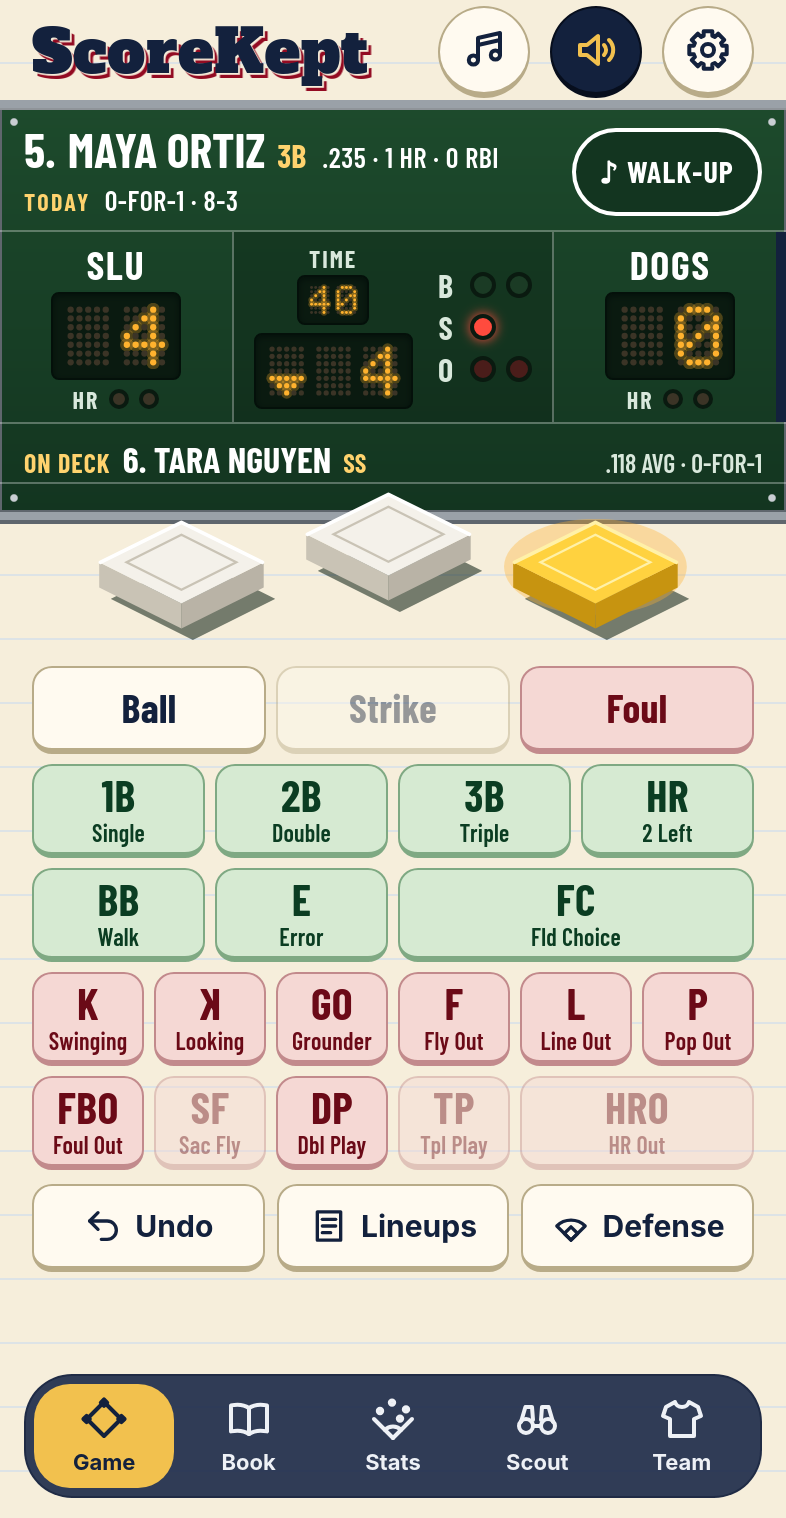
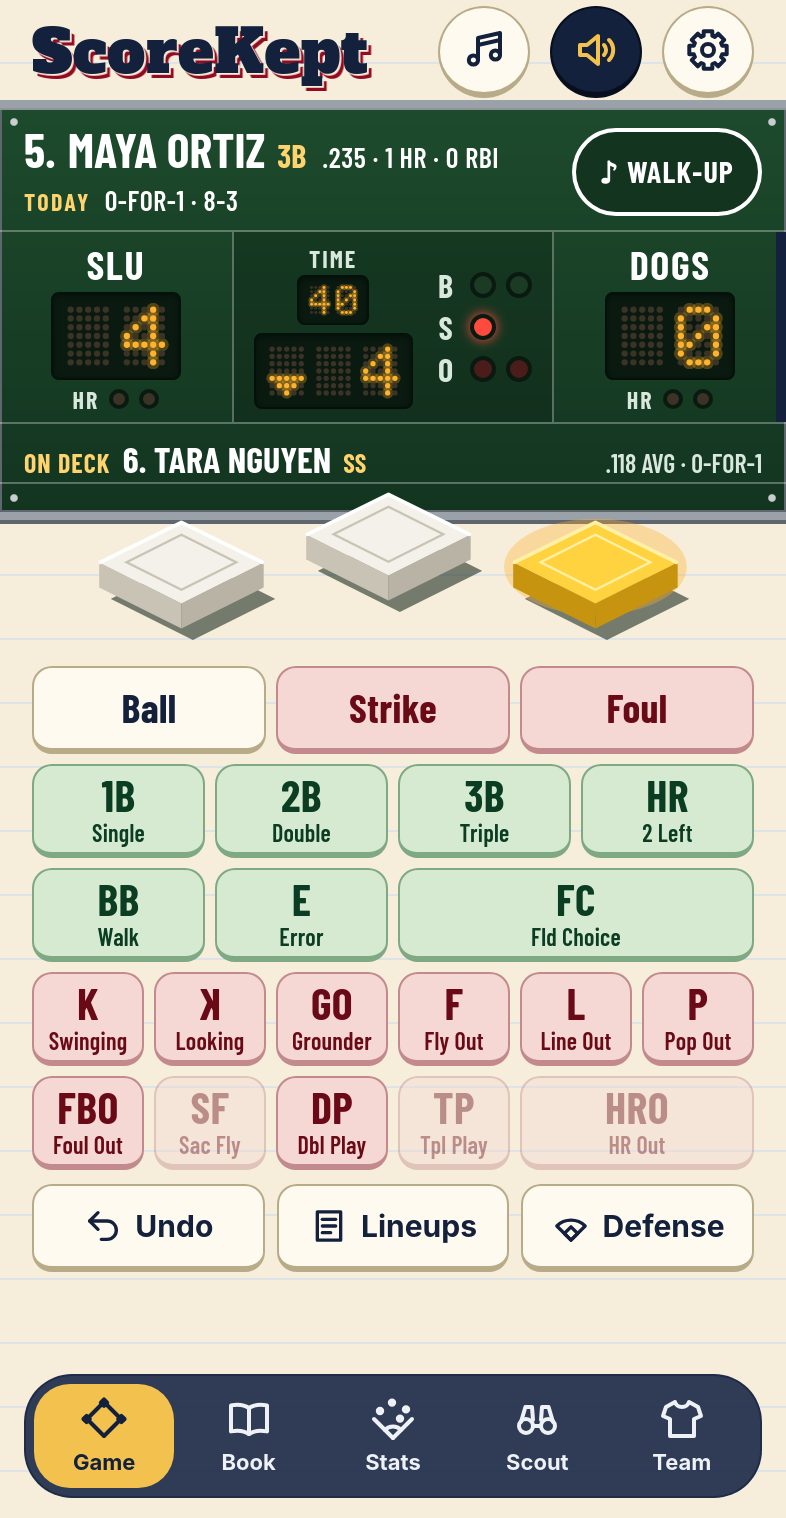
Game and Organ: Strike records the strikeout; the Organ as the sound hub
Under two-strike rules a dimmed Strike after one strike looked broken:
Strike now turns red on the out pitch and records a swinging strikeout.
The Organ fills its sheet, shows eight rows, ends its menu with Settings
for every sound setting, and Done is a small key in the corner.

Claude-Session: https://claude.ai/code/session_019GkS5eEiAzmEB3GrHC5aVf

Changed region(s): [[0.3359, 0.4335, 0.6718, 0.4954]]

diff --git a/src/content/help.ts b/src/content/help.ts
@@ -43,7 +43,7 @@ export const HELP: HelpSection[] = [
     paragraphs: [
       'Green buttons are for a batter who reaches base. Red buttons are for a batter who’s out. Each shows the code you’d write in the book over a plain word: GO over Grounder, K over Swinging. Some are dimmed when they can’t happen, like Sac Fly with nobody on third, or HRO before your team is over its home-run limit; tap one to hear why.',
       'The top of the scoreboard shows the batter’s season (average, home runs, RBI) and today: hits for at-bats, each trip by its Book code, RBI, and runs.',
-      'With Balls and Strikes on, tap Ball, Strike, or Foul for each pitch; the B, S, and O lamps beside the inning keep the count. Ball turns green when it would be ball four, Foul turns red when it would be a foul out, and Strike dims at two strikes: strike three is K Swinging or K Looking. BB stays for an intentional walk.',
+      'With Balls and Strikes on, tap Ball, Strike, or Foul for each pitch; the B, S, and O lamps beside the inning keep the count. Ball turns green when it would be ball four, and Strike and Foul turn red when they’d make the out. Strike on the out pitch records a swinging strikeout; tap K Looking instead for a called one. BB stays for an intentional walk.',
       'With Hit Location on, the field opens after a ball in play. Tap where the ball went, then Save. Skip records the play without a spot.',
       'In Dugout Mode, the other team’s half uses quick buttons: +1 Run, +1 Out, + Hit, + Our Error, and + Their HR.',
     ],
@@ -102,7 +102,7 @@ export const HELP: HelpSection[] = [
   {
     title: 'Sounds and Walk-Ups',
     paragraphs: [
-      'The music notes at the top of the Game tab open the Organ, a click-wheel player with Rally, Celebrate, Pregame, Between Innings, Drama, Send-Offs, and Walk-Ups. Slide around the wheel to scroll, press the middle to open an album or play a tune, and MENU to go back. The arrows change tunes, and play and pause stops. With VoiceOver, the Organ is a plain list of tunes instead. The Organ plays even when game sounds are off.',
+      'The music notes at the top of the Game tab open the Organ, a click-wheel player with Rally, Celebrate, Pregame, Between Innings, Drama, Send-Offs, and Walk-Ups. Slide around the wheel to scroll, press the middle to open an album or play a tune, and MENU to go back. The arrows change tunes, and play and pause stops. With VoiceOver, the Organ is a plain list of tunes instead. The Organ plays even when game sounds are off. Settings, at the bottom of its menu, opens every sound setting.',
       'The speaker next to it turns game sounds on and off. It lights up and plays a short tune when sound comes on, and goes plain and quiet when it’s off. Each play gets its sound, then the next batter’s walk-up, then anything special, like taking the lead. Scoring the next play or tapping Undo fades whatever is playing.',
       'Pick each player’s walk-up on their card: one of eight originals, any organ tune, or their own song file, with where to start and how long to play. Walk-Up on the scoreboard plays it anytime. On a player’s birthday, their first at-bat is Happy Birthday.',
       'Settings, Sounds & Walk-Up Songs has the sound pack, Big Speaker Mode (the spinning swirl and a big echo, for a Bluetooth speaker at the field), the echo (from Off to Big Stadium), the crowd, the PA announcer, umpire calls, music between innings, and a tune for each moment.',

diff --git a/src/ui/sound/organ.ts b/src/ui/sound/organ.ts
@@ -18,6 +18,7 @@ import { h, setText, svg } from '../dom.ts';
 import { tick } from '../haptics.ts';
 import { openSheet } from '../sheet.ts';
 import { fadeAll, nowPlaying, onPlaying, playTune } from './player.ts';
+import { openSounds } from './sounds.ts';
 
 export function lengthText(seconds: number): string {
   const s = Math.round(seconds);
@@ -29,7 +30,7 @@ function tunesIn(group: string): Tune[] {
   return TUNES.filter((t) => t.group === group);
 }
 
-const ROWS = 6;
+const ROWS = 8;
 /** Degrees of slide per step. */
 const STEP = 28;
 
@@ -56,7 +57,9 @@ export function openOrgan(app: App): void {
   const wheel = h('div', { class: 'cw-wheel' }, menu, prev, next, play, hub);
   const player = h('div', { class: 'cw-player', 'aria-hidden': 'true' }, screen, wheel);
 
-  const count = () => (level === 'albums' ? ALBUMS.length : level === 'songs' ? tunesIn(ALBUMS[album]!.group).length : 0);
+  // The menu: every album, then Settings, the way into all the sound settings (Steve, Nov 13:
+  // the iPod is the hub for everything sound).
+  const count = () => (level === 'albums' ? ALBUMS.length + 1 : level === 'songs' ? tunesIn(ALBUMS[album]!.group).length : 0);
 
   function render(): void {
     const playing = nowPlaying();
@@ -94,7 +97,7 @@ export function openOrgan(app: App): void {
     }
     window.clearInterval(timer);
     const rows: [string, string][] =
-      level === 'albums' ? ALBUMS.map((a) => [a.name, '›']) : tunesIn(ALBUMS[album]!.group).map((t) => [t.name, lengthText(tuneSeconds(t))]);
+      level === 'albums' ? [...ALBUMS.map((a): [string, string] => [a.name, '›']), ['Settings', '›']] : tunesIn(ALBUMS[album]!.group).map((t): [string, string] => [t.name, lengthText(tuneSeconds(t))]);
     setText(where, level === 'albums' ? 'Organ' : ALBUMS[album]!.name);
     const first = Math.max(0, Math.min(sel - ROWS + 2, rows.length - ROWS));
     view.replaceChildren(
@@ -125,6 +128,7 @@ export function openOrgan(app: App): void {
   }
 
   function choose(): void {
+    if (level === 'albums' && sel === ALBUMS.length) return openSounds(app);
     if (level === 'albums') {
       album = sel;
       sel = 0;
@@ -206,9 +210,12 @@ export function openOrgan(app: App): void {
 
   // VoiceOver: the same albums and tunes as plain buttons.
   const vo = new Map<string, HTMLButtonElement>();
+  const voSettings = h('button', { type: 'button' }, 'Sound Settings');
+  voSettings.addEventListener('click', () => openSounds(app));
   const list = h(
     'div',
     { class: 'sk-visually-hidden' },
+    voSettings,
     ...ALBUMS.map((a) =>
       h(
         'section',
@@ -238,7 +245,8 @@ export function openOrgan(app: App): void {
     title: 'Organ',
     full: true,
     className: 'cw-sheet',
-    body: [h('p', { class: 'sk-row-note' }, 'Slide around the wheel to scroll. Press the middle to open an album or play a tune, and MENU to go back. The Organ plays even when game sounds are off.'), player, list],
+    // Nearly full screen: the player fills the sheet, and Done is a small key in the corner (Steve, Nov 13).
+    body: [player, list],
     done: { label: 'Done', onClick: () => undefined },
     cancel: false,
     onClose: () => {

diff --git a/src/ui/game/pad.ts b/src/ui/game/pad.ts
@@ -55,12 +55,13 @@ const OUTS: KeyDef[] = [
 /**
  * The slim pitch row (Steve's Option B, Nov 13): Ball, Strike, Foul. No small words: the board's
  * B, S, O lamps say the count. A key takes on the color of what it would do: Ball turns green when
- * it's ball four, Foul turns red when it's a foul out, and Strike dims at two strikes, because
- * strike three is K or the backwards K, so the pad says how the batter went down.
+ * it's ball four, and Strike and Foul turn red when they'd make the out. Strike always works: at
+ * the strikeout count it records a swinging strikeout (Steve: under 2 strikes = out, a dimmed
+ * Strike after one strike looked broken); the backwards K is there for a called one.
  */
 const PITCHES: { p: PitchEvent['pitch']; word: 'ball' | 'strike' | 'foul'; label: string }[] = [
   { p: 'ball', word: 'ball', label: 'Ball' },
-  { p: 'look', word: 'strike', label: 'Strike' },
+  { p: 'swing', word: 'strike', label: 'Strike' },
   { p: 'foul', word: 'foul', label: 'Foul' },
 ];
 
@@ -162,8 +163,7 @@ export class Pad {
       // VoiceOver also hears what the pitch does ("Walk"); sighted scorers see the color.
       setAttr(b, 'aria-description', word);
       b.classList.toggle('sk-hit', p === 'ball' && word === 'Walk');
-      b.classList.toggle('sk-out', p === 'foul' && word === 'Foul Out');
-      setDimmed(b, p === 'strike' && word === 'Strikeout' ? 'Strike three: tap K Swinging or K Looking.' : undefined);
+      b.classList.toggle('sk-out', (p === 'foul' && word === 'Foul Out') || (p === 'strike' && word === 'Strikeout'));
     }
     for (const [r, b] of this.keys) setDimmed(b, v.dimmed[r]);
     const hr = this.keys.get('HR')!;

diff --git a/src/ui/sound/sound.css b/src/ui/sound/sound.css
@@ -221,8 +221,10 @@
 .cw-player {
   display: grid;
   gap: 22px;
-  width: min(300px, 100%);
-  margin: 4px auto 0;
+  /* As big as the sheet allows: wide enough for the screen, short enough that the wheel fits. */
+  /* Never below 280 wide (sideways, it scrolls in the sheet instead of shrinking under 44-point keys). */
+  width: min(360px, 100%, max(280px, calc((100dvh - 210px - var(--safe-top) - var(--safe-bottom)) * 0.58)));
+  margin: 0 auto;
   padding: 22px;
   border: 1px solid var(--cw-body-edge);
   border-radius: 34px;
@@ -290,7 +292,7 @@
   display: flex;
   justify-content: space-between;
   gap: 6px;
-  padding: 3px 8px;
+  padding: 2px 8px;
   white-space: nowrap;
 }
 
@@ -417,4 +419,21 @@
   fill: currentColor;
   stroke: currentColor;
   stroke-width: 2;
+}
+
+/* The Organ sheet: the player fills it, and Done is a small key in the bottom-right corner. */
+.cw-sheet .sh-body {
+  display: grid;
+  align-content: center;
+}
+
+.cw-sheet .sh-foot {
+  display: flex;
+  justify-content: flex-end;
+  padding-bottom: max(10px, var(--safe-bottom));
+  border-top: 0;
+}
+
+.cw-sheet .sh-done {
+  min-width: 88px;
 }

diff --git a/tests/e2e/game.spec.ts b/tests/e2e/game.spec.ts
@@ -167,11 +167,15 @@ test('the count: balls and strikes light the lamps, and the third ball walks', a
   await key(page, 'Ball').click();
   await expect(live(page)).toHaveText('Player 1 walks.');
   await key(page, 'Strike').click();
-  // Two strikes: Strike dims (strike three is K or the backwards K) and Foul turns red.
-  await expect(key(page, 'Strike')).toHaveAttribute('aria-disabled', 'true');
+  // The next strike is the out (2+ HR Division: two strikes): Strike and Foul turn red, and both still work.
+  await expect(key(page, 'Strike')).toHaveClass(/sk-out/);
+  await expect(key(page, 'Strike')).not.toHaveAttribute('aria-disabled', 'true');
   await expect(key(page, 'Foul')).toHaveClass(/sk-out/);
   await key(page, 'Foul').click();
   await expect(live(page)).toHaveText('Player 2 fouls out.');
+  await key(page, 'Strike').click();
+  await key(page, 'Strike').click();
+  await expect(live(page)).toContainText('Player 3 strikes out swinging');
 });
 
 test('Game Settings: End Game Now, then Play Another Inning', async ({ page }) => {

diff --git a/tests/e2e/sound.spec.ts b/tests/e2e/sound.spec.ts
@@ -123,3 +123,16 @@ for (const colorScheme of ['light', 'dark'] as const) {
     });
   });
 }
+
+test('the Organ is the sound hub: Settings at the bottom of its menu opens the sound settings', async ({ page }) => {
+  await sample(page);
+  await page.getByRole('button', { name: 'Organ', exact: true }).click();
+  const organ = page.getByRole('dialog', { name: 'Organ' });
+  await expect(organ.locator('.cw-list li').last()).toHaveText(/^Settings/);
+  // Step down to Settings with the forward key, then press the middle.
+  for (let i = 0; i < 7; i++) await organ.locator('.cw-next').click();
+  await expect(organ.locator('.cw-sel')).toHaveText(/^Settings/);
+  await organ.locator('.cw-hub').click();
+  await expect(page.getByRole('dialog', { name: 'Sounds & Walk-Up Songs' })).toBeVisible();
+  await expect(page.getByRole('switch', { name: 'Big Speaker Mode' })).toBeVisible();
+});

diff --git a/src/content/whats-new.ts b/src/content/whats-new.ts
@@ -10,6 +10,14 @@ export interface WhatsNewEntry {
 
 export const WHATS_NEW: WhatsNewEntry[] = [
   {
+    version: '2026.11.13-4',
+    headline: 'Two Strikes and You’re Out, by the Book',
+    lines: [
+      'Strike works on every pitch now. When the next strike is the out, Strike and Foul turn red, and Strike rings him up swinging. Called third strike? The backwards K.',
+      'The Organ got bigger, and Settings at the bottom of its menu takes you straight to every sound setting.',
+    ],
+  },
+  {
     version: '2026.11.13-3',
     headline: 'A Broadcast Booth Scoreboard',
     lines: [

diff --git a/src/version.ts b/src/version.ts
@@ -1,2 +1,2 @@
 // Bump on every push that changes the app. Format: YYYY.MM.DD-N
-export const APP_VERSION = '2026.11.13-3';
+export const APP_VERSION = '2026.11.13-4';

diff --git a/docs/SPEC.md b/docs/SPEC.md
@@ -300,6 +300,7 @@ Grouped; each item opens its own screen; ✕ or Done returns to Settings:
 - **iPhone Now Playing (2026.11.12-17, from `docs/IPHONE_CAPABILITIES.md`):** while an Organ tune plays, Media Session gets its title, artist, album, and the app icon, and Pause or Stop there fades it out (`src/ui/sound/player.ts`). iOS shows Now Playing only for some kinds of playback; confirm on Steve's iPhone.
 - **Ballpark organ, second pass (2026.11.12-16, Steve: "it just sounds a little cheap and tinny"; his guide to the ballpark sound):** upper manual drawbars 888865432 for the melody, doubled an octave down; lower manual 848000000 for the left-hand chords; pedals 82 (the 16' with a touch of 8') for root-fifth bass; tonewheels stop at 6 kHz; light second-harmonic percussion and a softer key click on the melody only. One shared cabinet: about 15% tube saturation, C3 chorus (a 4 ms delay swaying at 6.9 Hz mixed with the dry sound), and a fast Leslie split at 800 Hz (bass rotor 5.9 Hz, horn 6.8 Hz with Doppler sway and a left-right swing). Then the stadium: +4.5 dB at 220 Hz, -9 dB shelf above 6 kHz, and a generated stereo hall reverb (Small Gym 1.3 s, Ballpark 2.8 s, Big Stadium 3.8 s; 25–60 ms pre-delay), with a gentle limiter. The swell pedal leans 30% louder into each tune's last phrase. Drums skip the cabinet; song files skip the cabinet and the reverb. Measured on recordings from a browser: the tonal center dropped from 921 Hz to 672 Hz on Charge!, and the room now rings about 3 seconds after the last chord instead of 1.5.
 - **Hammond B-3 voice (2026.11.12-14, Steve: "all sounds ... as though they are coming out of a Hammond Organ like you'd hear at the ballpark"):** Ballpark Hammond is now modeled on a B-3 through a Leslie: sine tonewheels on drawbars 88 8630 000 (16', 5 1/3', 8', 4', 2 2/3', 2'), third-harmonic percussion that rings at each key press and dies in about a fifth of a second, key click, the Leslie's fast rotor (6.8 Hz pitch wobble and a 5.9 Hz volume swirl), and a gentle tube soft clip. It's the only voice since 2026.11.12-15.
+- **The Organ as the sound hub (2026.11.13-4, Steve: "our secondary main hub to do just about everything sound related"):** the menu ends with **Settings**, which opens Sounds & Walk-Up Songs on top of the Organ (VoiceOver gets a Sound Settings button). The player fills the sheet (as wide as 360 points, sized so the wheel always fits), the screen shows eight rows, the how-to line moved to Help, and Done is a small key in the bottom-right corner instead of a full-width bar.
 - **Organ as a click wheel (2026.11.12-7, Steve: "the wheel would replace the current list & become the view when dealing with audio"):** `src/ui/sound/organ.ts` draws a pocket player of our own (no logo or product name): a backlit screen (fixed `--cw-lcd-*` colors, the same in both appearances) with a title bar, then Albums → tunes (length at the right) → Now Playing (n of N, name, credit, progress, elapsed and length); a wheel (white plastic in the light appearance, black in Dark Mode, `--cw-*` tokens) with MENU, back, forward, and play / pause drawn as marks, and a center button. Sliding 28° around the wheel moves one row; each step plays a soft click (`organ.click()`) and a haptic tick (`src/ui/haptics.ts`: flipping a hidden native switch, which iOS 18 Safari answers with the system tick; follows System Haptics; nothing elsewhere). The wheel is `aria-hidden`; VoiceOver gets every tune as a plain button in a visually hidden list (`aria-pressed` while playing). `sounds.html` keeps its list.
 - **Header:** Organ (two beamed music notes since 2026.11.12-14; the keyboard didn't read as the Organ, Steve), speaker (on/off, `aria-pressed`), Settings: three round 46-point keys with the thicker bottom edge (2026.11.12-8). The speaker lights up when sound is on (`--pill-on-*`: navy with a gold speaker by day, gold with a navy speaker by night) and plays **Sound On** (`g-sound-on`, a short organ flourish) as confirmation; turning sound off is silent, and the key goes plain with the slashed speaker (the first version's behavior). **Board:** a ♪ Walk-Up pill on the batter card while we bat; it reads ■ Stop while that song plays.
 - **Game times in the Book footer (2026.11.12-17, Steve: time, weather, and location in gameday data):** "First pitch 6:32 PM · Final 7:24 PM · 52 minutes" from the coin toss (`setup.startedAt`) to the last tap of a finished game (`gameTimes` in `src/app/book.ts`); a game still going shows only its first pitch, and imported first-version games without a start show nothing. Weather and location wait for Steve (BACKLOG).
@@ -309,7 +310,7 @@ Grouped; each item opens its own screen; ✕ or Done returns to Settings:
 - **Fit on a real iPhone (2026.11.12-10):** safe areas are `--safe-top` and `--safe-bottom` (from `env()`); the body pads for them once and `.sk-app` fills only the rest, so the Game screen no longer scrolls by the height of the Dynamic Island and Home indicator. A fit test stands in for the full 393 × 852 screen with safe areas 59 and 34. The Settings gear is redrawn with eight even teeth.
 - **Scorebug, Steve's Option B (2026.11.13-3, from his Photoshop mock: "our FOX MLB quality scorebug, relaying good relevant info at a glance"):**
   - **Board:** on iPhone upright it runs edge to edge (frame on top and bottom only). Batter row: spot, name, position, and the season line beside them (".235 · 1 HR · 0 RBI", wrapping under the name when there's no room), then **Today** in gold: hits for at-bats, each trip by its Book code, RBI, runs ("0-for-1 · 8-3"). The little at-bat boxes are gone. Score row: each team's name, bulb runs, and HR lamps; the middle (a shade darker) has the clock over the inning in bulbs, with **B**, **S**, **O** lamps stacked beside them. The separate BALL / STRIKE / OUT lamp row is gone. On Deck and the hanging bases as before.
-  - **Pad:** the pitch row is **Ball · Strike · Foul** with no small words (Look and Swing are gone). Ball turns green when it would be ball four, Foul turns red when it would be a foul out, and Strike dims at two strikes ("Strike three: tap K Swinging or K Looking."). VoiceOver hears what each pitch does as the button's description. **BB** stays on the pad with the count on (the intentional walk). Batter Reaches is four wide (1B 2B 3B HR / BB E FC, FC two wide); Batter Out keeps its six-wide rows, Triple Play included. The Batter Reaches and Batter Out labels are for VoiceOver only now. The Game screen has 51 points to spare on an iPhone 16.
+  - **Pad:** the pitch row is **Ball · Strike · Foul** with no small words (Look and Swing are gone). Ball turns green when it would be ball four, and Strike and Foul turn red when they'd make the out. Strike always works: at the strikeout count it records a swinging strikeout; the backwards K is for a called one (2026.11.13-4, Steve: a dimmed Strike after one strike, under the 2+ HR Division's two-strike rule, looked broken). VoiceOver hears what each pitch does as the button's description. **BB** stays on the pad with the count on (the intentional walk). Batter Reaches is four wide (1B 2B 3B HR / BB E FC, FC two wide); Batter Out keeps its six-wide rows, Triple Play included. The Batter Reaches and Batter Out labels are for VoiceOver only now. The Game screen has 51 points to spare on an iPhone 16.
 - **HRO dimmed under the limit (2026.11.12-9):** "Home runs still count: 2 left before the limit" until the team is over its home-run limit; "This league has no home run limit" without one.
 - **Stats tab icon (2026.11.12-9):** a spray chart (foul lines, the infield arc, four dots), Steve's pick.
 

diff --git a/README.md b/README.md
@@ -48,7 +48,7 @@ On a new iPhone or iPad, tap **PLAY BALL!**, then **Look Around with Sample Data
 
 1. On the Game tab, tap **New Game** (or **Start This Game** under Up Next). Check **Who’s Here**, build the batting order by tapping players (drag **☰** to reorder, or try **Auto-Fill**, **Same as Last Game**, or **Suggest Order**), then fill in **Game Details**.
 2. At the coin toss, tap **We’re Visitors (Bat First)** or **We’re Home (Bat Second)**. The clock starts.
-3. Tap the green buttons when a batter reaches and the red ones when a batter’s out. The top of the scoreboard shows the batter’s season line and today’s trips to the plate. With **Balls and Strikes** on, tap **Ball**, **Strike**, or **Foul** for each pitch; strike three is **K** or the backwards **K**. With **Hit Location** on, tap where the ball went, then **Save** (or **Skip**).
+3. Tap the green buttons when a batter reaches and the red ones when a batter’s out. The top of the scoreboard shows the batter’s season line and today’s trips to the plate. With **Balls and Strikes** on, tap **Ball**, **Strike**, or **Foul** for each pitch; Strike on the out pitch is a swinging strikeout, and the backwards **K** is a called one. With **Hit Location** on, tap where the ball went, then **Save** (or **Skip**).
 4. Tap a lit base to move a runner: **Advance**, **Scored on the Play**, **Out**, or **Courtesy Runner**.
 5. When the game ends, tap **Save to Season**, then **Back Up Now**.
 
@@ -73,7 +73,7 @@ On a new iPhone or iPad, tap **PLAY BALL!**, then **Look Around with Sample Data
 
 ## The organ
 
-Every sound is played live by a Hammond organ in the app, so nothing downloads and it works with no signal. Tap the music notes at the top of the Game tab for the **Organ**, a click-wheel player (slide to scroll, press the middle to choose, **MENU** to go back), and the speaker to turn game sounds on and off (it lights up and plays a short tune when sound comes on). Each player's walk-up is on their card. **Settings**, **Sounds & Walk-Up Songs** has the rest, including **Big Speaker Mode** (the spinning ballpark swirl and a big echo, for a Bluetooth speaker; off is the standard plain organ) and **Echo** (Off, Small Gym, Ballpark, or Big Stadium). To hear everything at once, open `sounds.html` on the site in Safari.
+Every sound is played live by a Hammond organ in the app, so nothing downloads and it works with no signal. Tap the music notes at the top of the Game tab for the **Organ**, a click-wheel player (slide to scroll, press the middle to choose, **MENU** to go back; **Settings** at the bottom of its menu opens every sound setting), and the speaker to turn game sounds on and off (it lights up and plays a short tune when sound comes on). Each player's walk-up is on their card. **Settings**, **Sounds & Walk-Up Songs** has the rest, including **Big Speaker Mode** (the spinning ballpark swirl and a big echo, for a Bluetooth speaker; off is the standard plain organ) and **Echo** (Off, Small Gym, Ballpark, or Big Stadium). To hear everything at once, open `sounds.html` on the site in Safari.
 
 Where the notes came from:
 

diff --git a/docs/PARITY.md b/docs/PARITY.md
@@ -39,7 +39,7 @@ On each, it checks that the page never scrolls sideways, every control is at lea
 | 17. Layouts and accessibility | Built | Four layouts, the sweep above, VoiceOver names, live announcements, a whole game scored by roles and names only. **Open:** Steve's real VoiceOver test on his iPhone. |
 | 18. Visual design | Built | Tokens for both appearances, navy tab bar with gold pill, Alfa Slab One and Barlow Condensed, the hand only in the Book, the new Home Screen icon. |
 | 19. Sample data | Built | Six games, tonight in the fourth, two ahead, Defense cards from Auto-Rotate. **Open:** drawn portraits. |
-| 20. Tests | Built | The first build had about 179 tests; the rebuild has 292 unit tests and 145 browser tests, each browser test run in Chromium and WebKit on every push. |
+| 20. Tests | Built | The first build had about 179 tests; the rebuild has 293 unit tests and 146 browser tests, each browser test run in Chromium and WebKit on every push. |
 
 ## What only Steve can check
 
